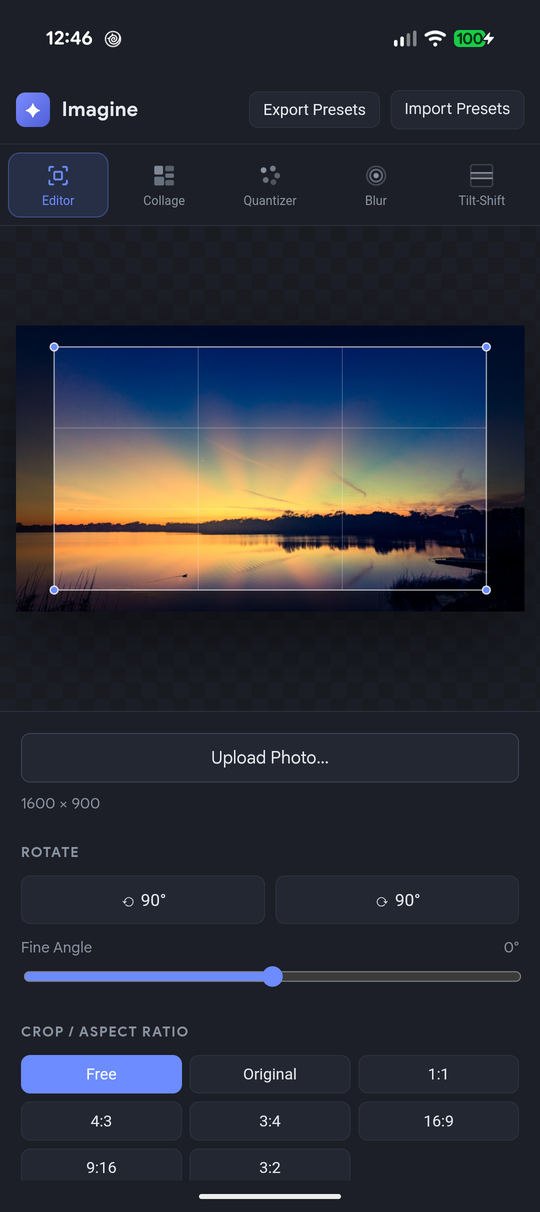
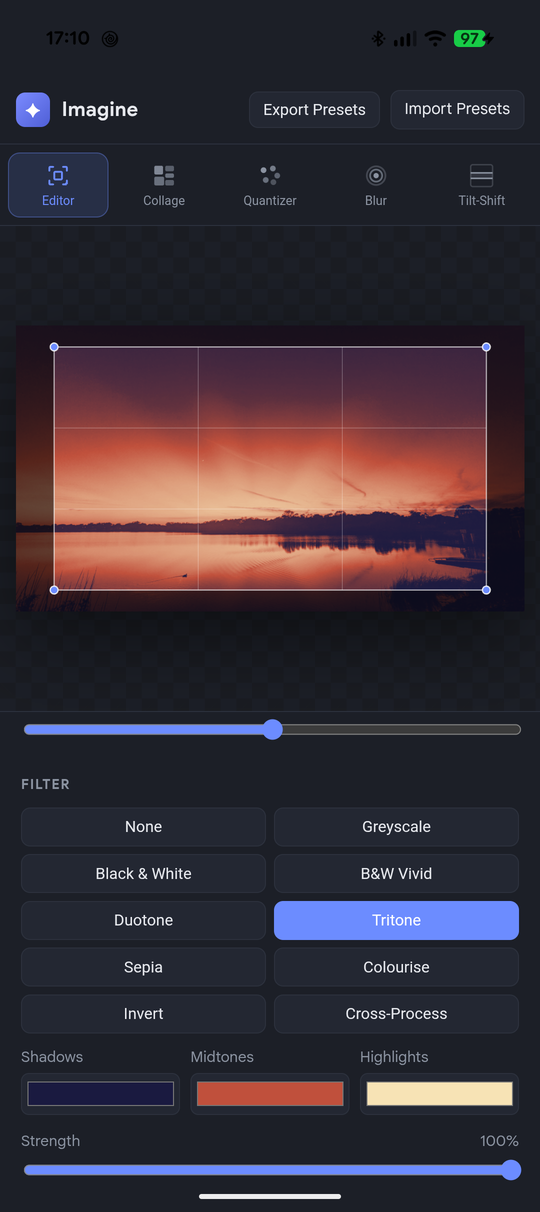
Show the Editor's filters in the README screenshots
Desktop shot with the Duotone filter and panel, phone shot with Tritone
and its colour pickers.

diff --git a/README.md b/README.md
@@ -3,11 +3,11 @@
 Five image tools in a single HTML page: an editor, a collage maker, a retro palette quantizer, a blur tool and a tilt-shift miniature effect. Everything runs locally in the browser, so photos never leave your device. It's packaged for the web (Docker + nginx, installable as a PWA), Windows desktop (Electron) and Android (Capacitor).
 
 <p align="center">
-  <img src="docs/desktop-editor.png" alt="Imagine's Image Editor on the desktop, with a sunset photo loaded and a crop box drawn over it" width="800">
+  <img src="docs/desktop-editor.png" alt="Imagine's Image Editor on the desktop, with a Duotone filter turning a sunset photo navy and peach, and the Filter panel open" width="800">
 </p>
 
 <p align="center">
-  <img src="docs/android-editor.png" alt="Imagine's Image Editor on a Pixel 10a" width="240">
+  <img src="docs/android-editor.png" alt="Imagine's Image Editor on a Pixel 10a, with a Tritone filter and its three colour pickers" width="240">
   &nbsp;
   <img src="docs/android-quantizer.png" alt="Imagine's Quantizer on a Pixel 10a" width="240">
   &nbsp;
